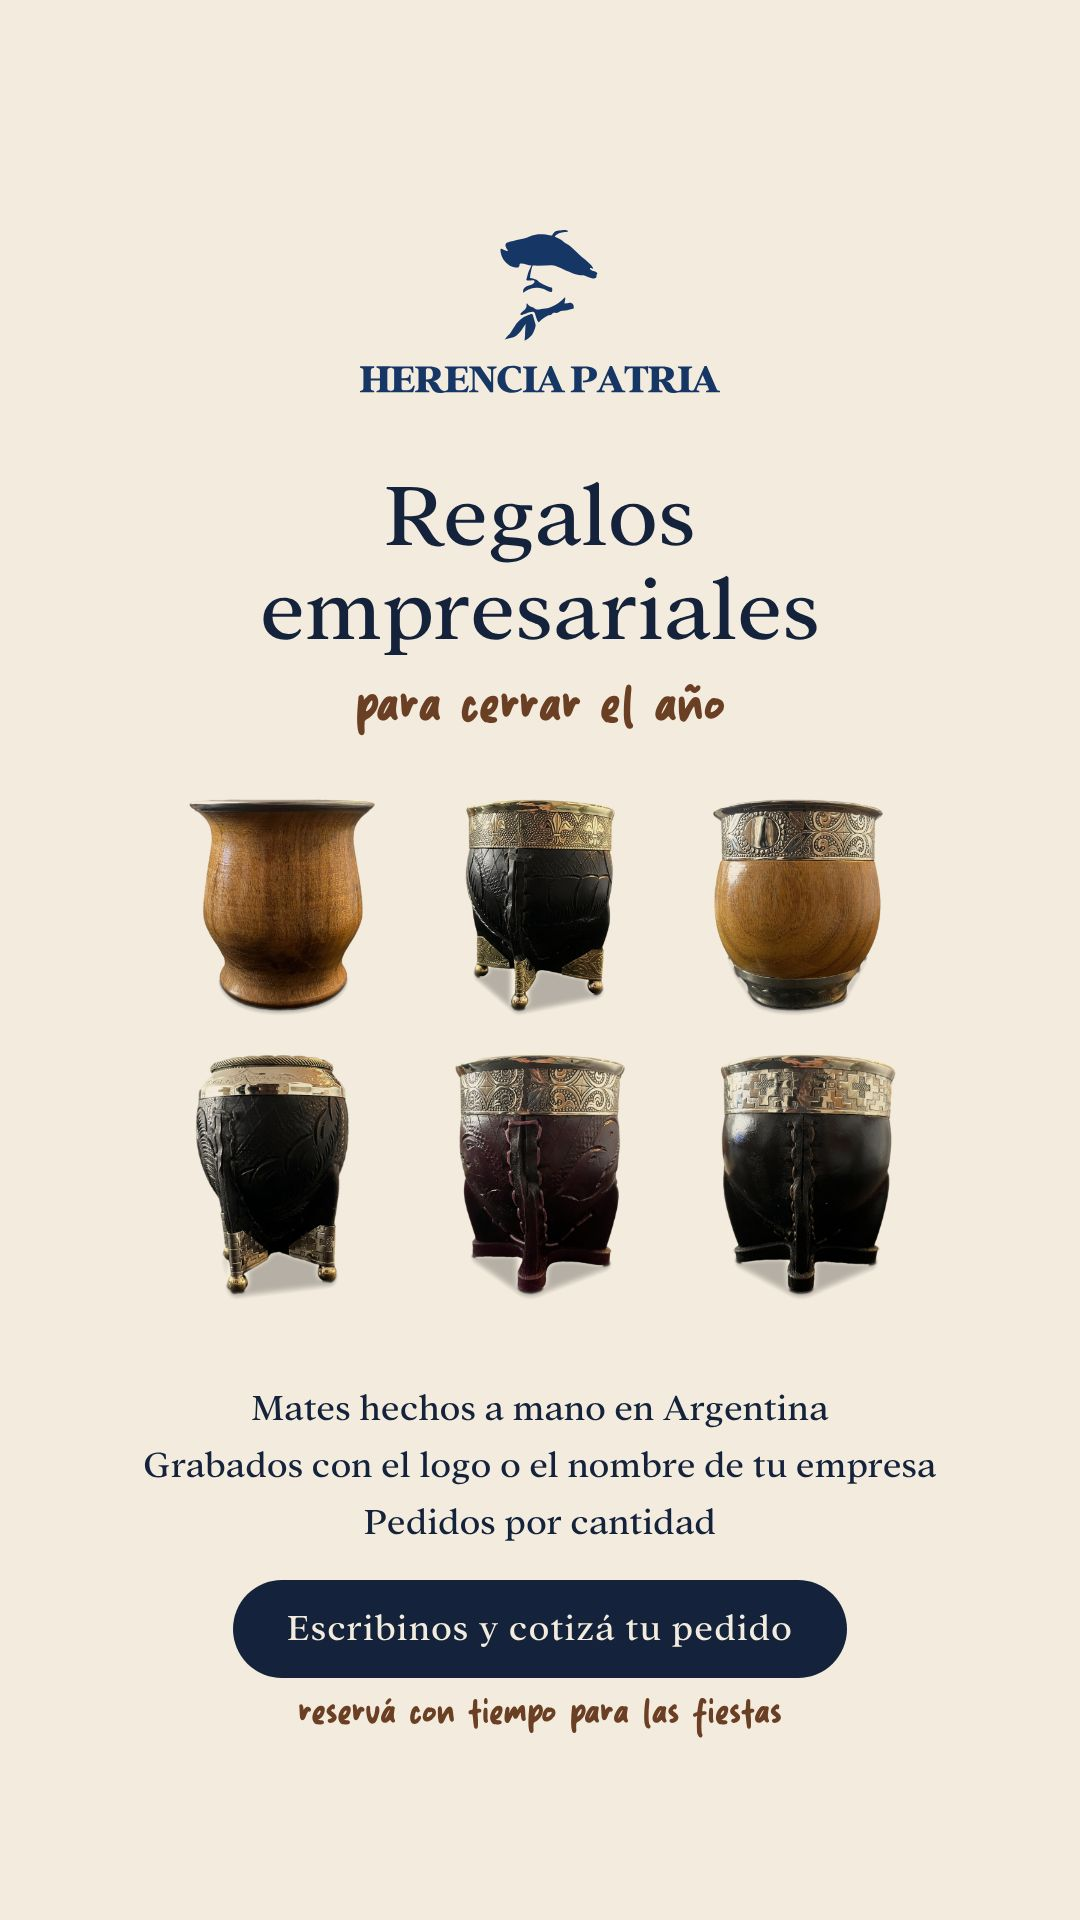
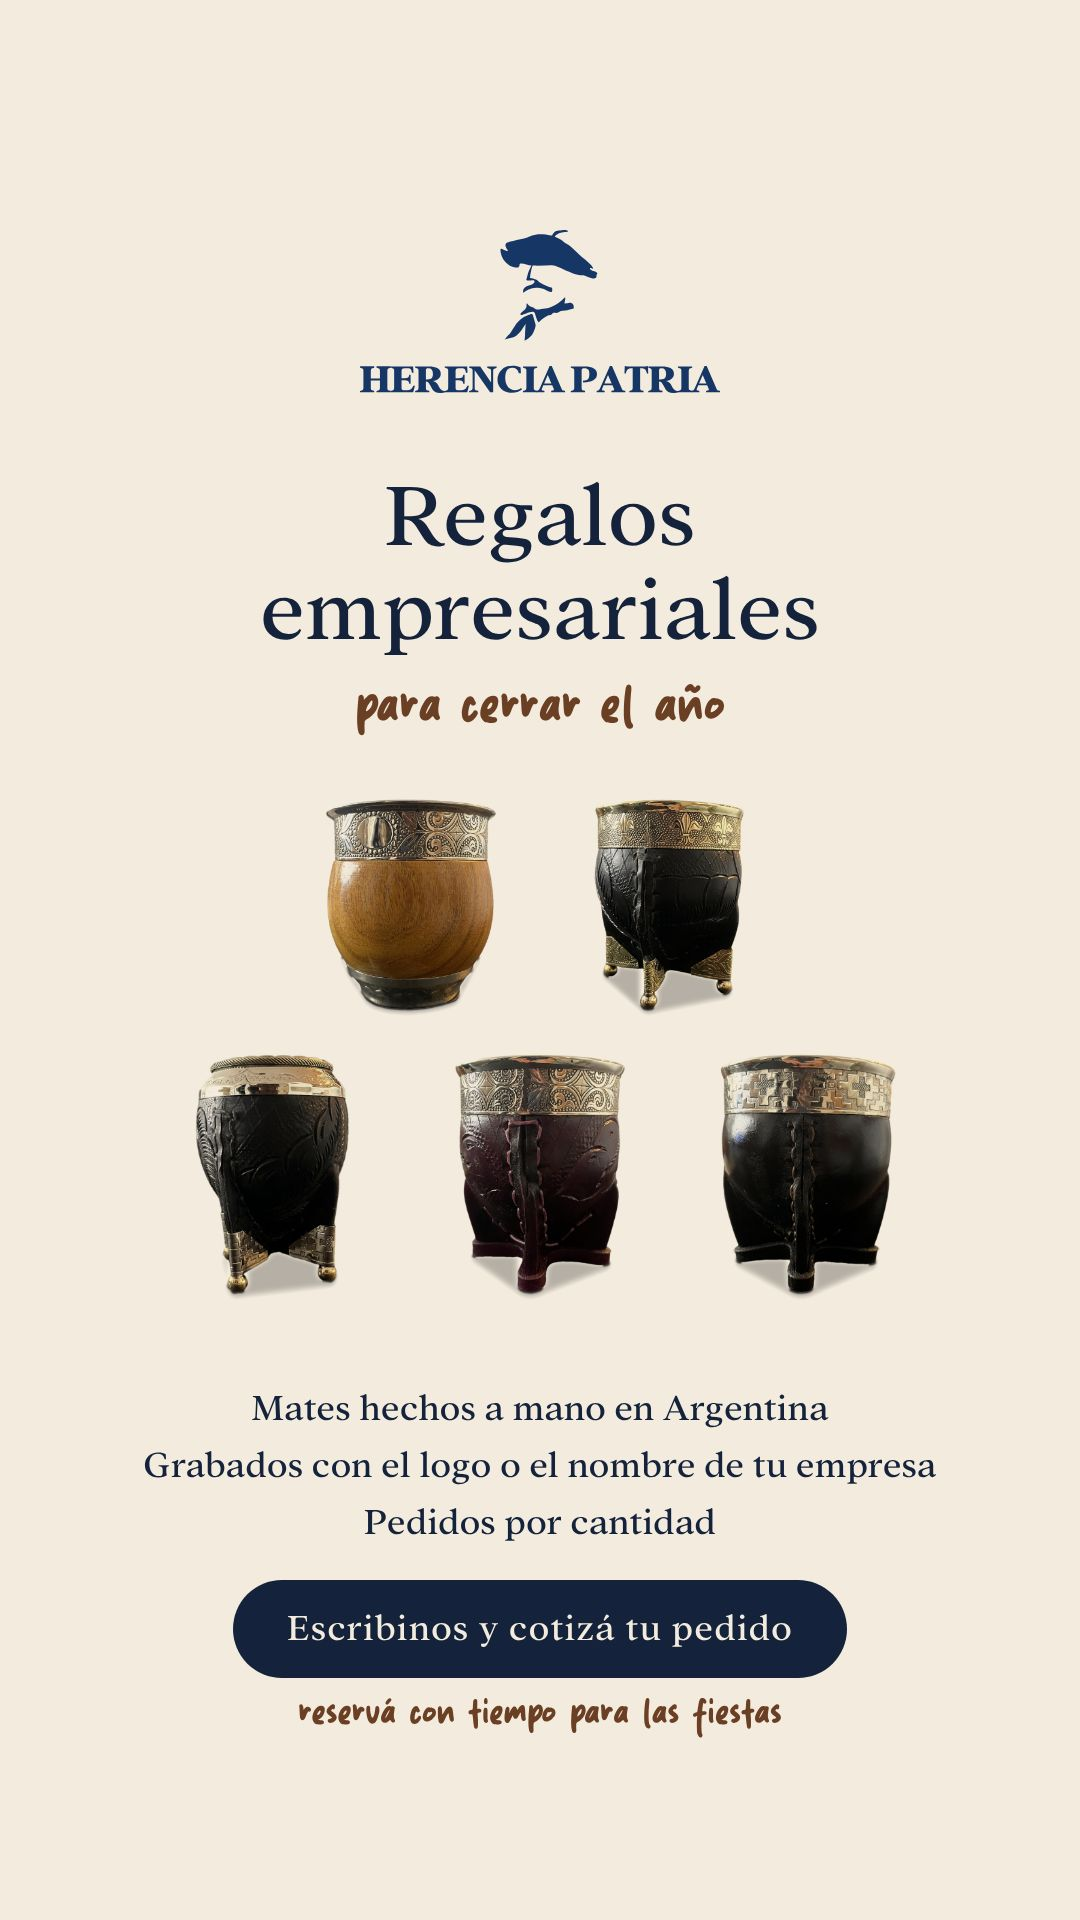
Historia empresarial: el imperial de algarrobo en lugar del torpedo
Claude-Session: https://claude.ai/code/session_012H3xPSmbqKoMmc2aK7okNH

Changed region(s): [[0.1833, 0.4062, 0.825, 0.5312]]

diff --git a/src/Root.tsx b/src/Root.tsx
@@ -398,9 +398,8 @@ export const RemotionRoot: React.FC = () => {
         defaultProps={{
           mates: [
             [
-              "producto/mate-madera-liso.jpg",
-              "producto/mate-negro-dorado-flor-de-lis.jpg",
               "producto/mate-algarrobo-blanco.jpg",
+              "producto/mate-negro-dorado-flor-de-lis.jpg",
             ],
             [
               "producto/mate-negro-cincelado-patas.jpg",
